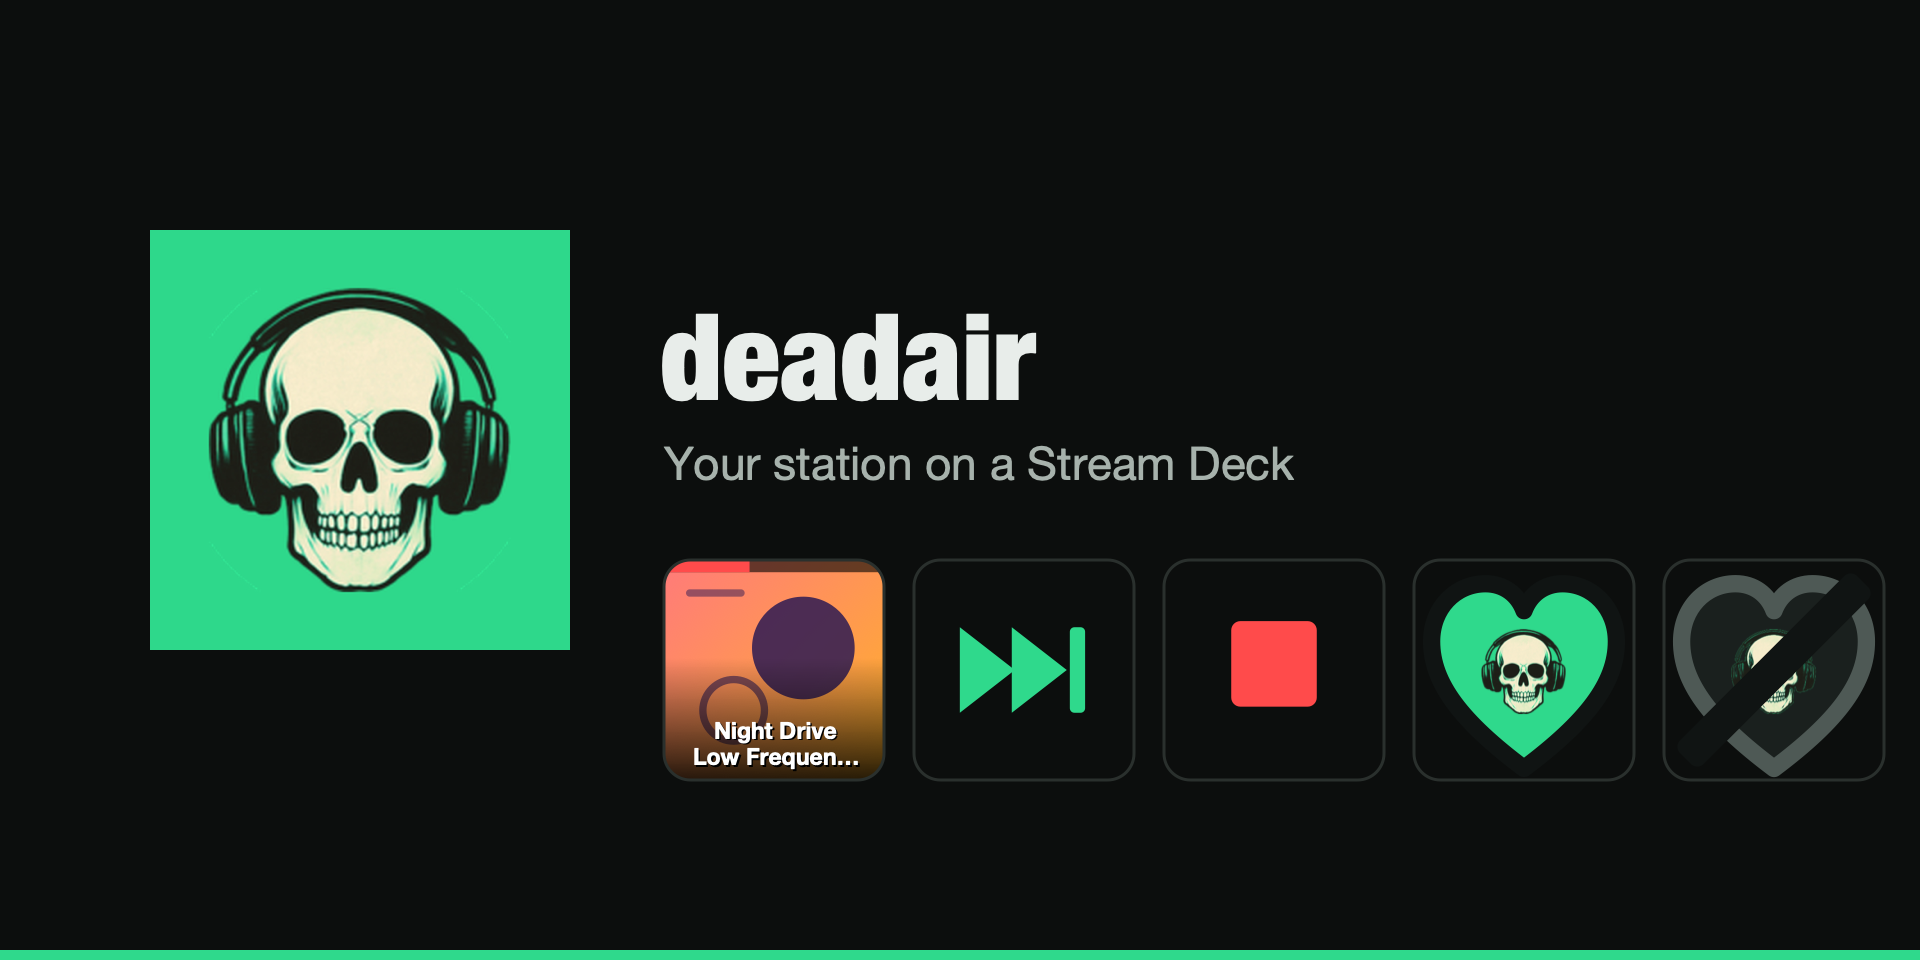
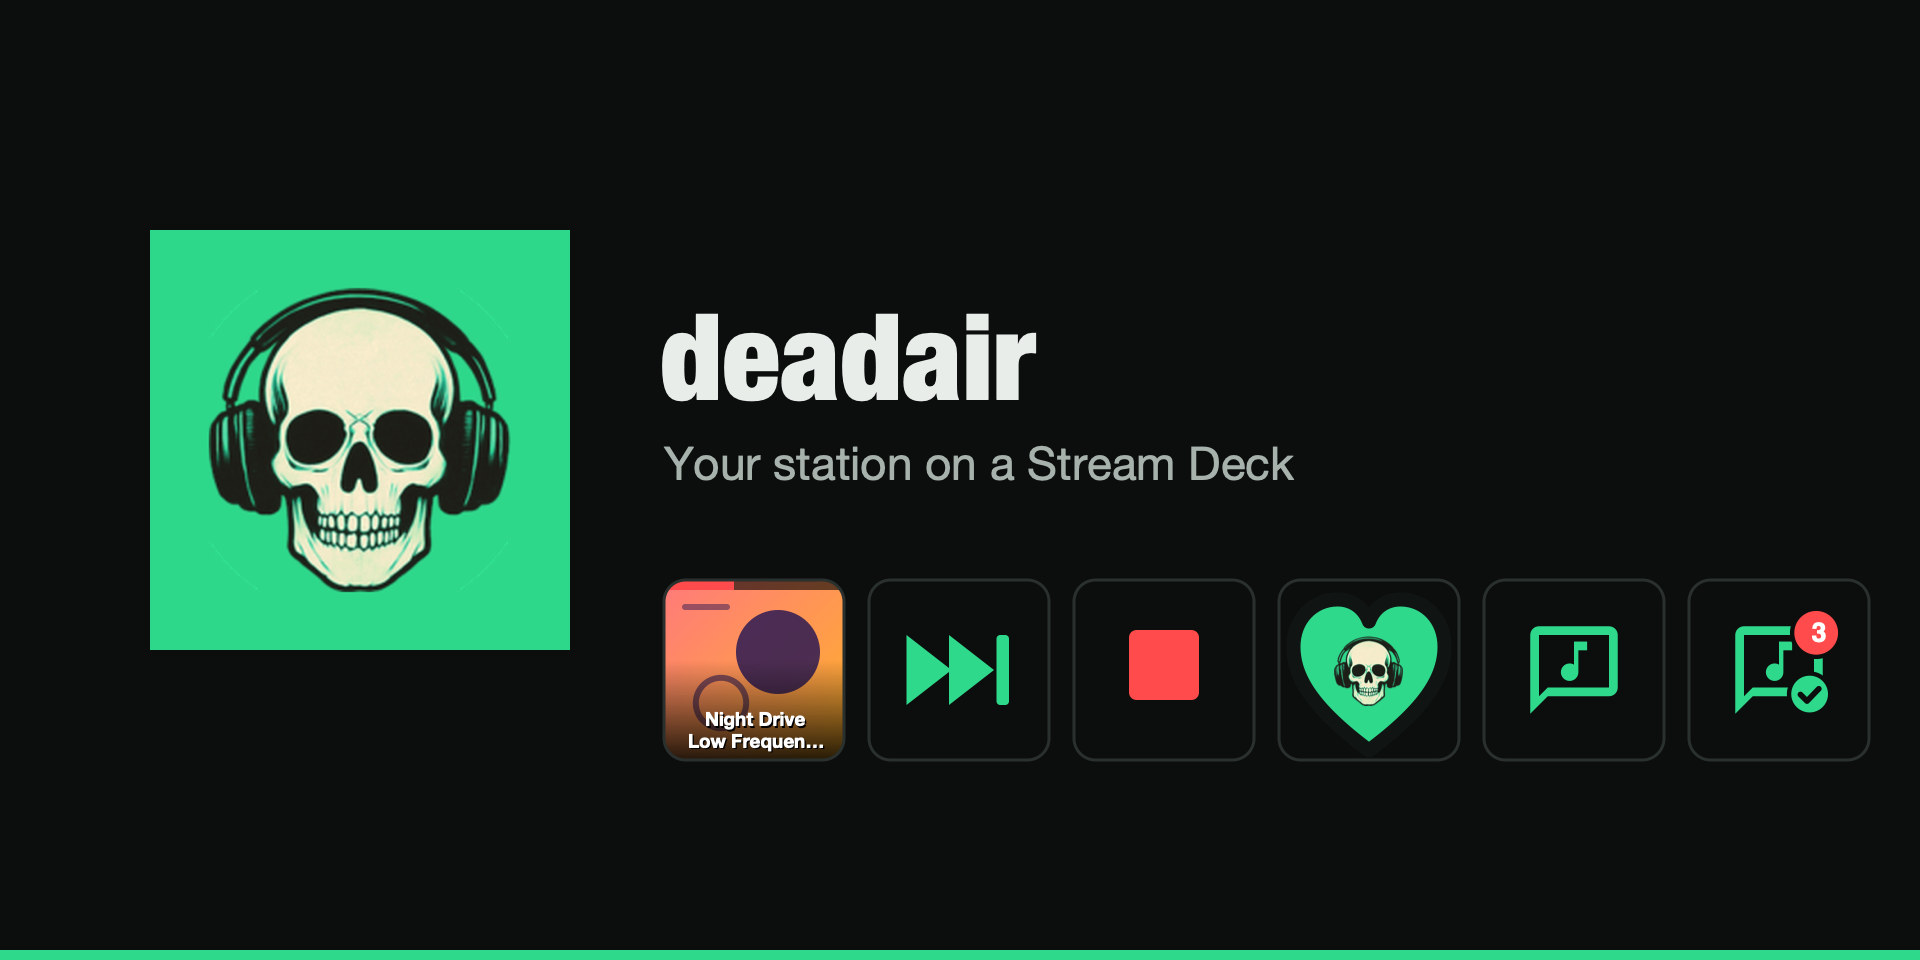
streamdeck: the Marketplace listing shows Request and Grant request (#776)
The description gains the two keys and comes back under the console's
1,500 characters, the thumbnail and the second gallery image draw them,
and the release notes are 0.3.0's.

Changed region(s): [[0.3438, 0.5625, 1.0, 0.8125], [0.5625, 0.7812, 0.625, 0.8125], [0.5625, 0.5938, 0.5938, 0.625]]

diff --git a/apps/streamdeck/marketplace/listing.md b/apps/streamdeck/marketplace/listing.md
@@ -19,37 +19,39 @@ Under the console's 1,500 characters.
 > deadair is an AI radio station you run yourself: it picks the records, writes what the presenter
 > says between them, speaks it and streams it. This plugin puts its desk on your Stream Deck.
 >
-> Now playing shows what is on air: the cover, the title and who it is by, and a bar that fills as the
-> record plays. When the station is quiet it says why, in the console's own words: ready, off air,
-> warming up. Press it to open the station's console. The bar, and the title and artist, can each be
-> turned off per key.
+> Now playing shows the cover, the title and artist, and a bar that fills as the record plays. When
+> the station is quiet it says why: ready, off air, warming up. Press it to open the console. The bar
+> and the title can each be turned off per key.
 >
-> Skip ends the record or break on air and plays the next one.
+> Skip ends the record or break on air.
 >
-> Like and Dislike set what the station thinks of the record playing, the same opinion you would
-> set from the running order in the console: a like plays it more often, a dislike means never
-> again. The heart fills with colour when the station already agrees; press the lit one to take it
-> back.
+> Like and Dislike set what the station thinks of the record playing: a like plays it more often, a
+> dislike means never again. The heart fills when the station already agrees; press it again to take
+> it back.
 >
 > Stop or start stops the station on the second press within five seconds, so a stray press never
-> takes it off air, and once it is stopped the same key starts it again.
+> takes it off air, and then starts it again.
 >
-> You enter your station's address and an API key once, in any deadair key's settings, and every
-> key shares them. The key is issued in the station's console under Settings, Sign-in and security, API keys:
-> Read only is enough for Now playing, and for seeing what the station thinks of a record; Skip,
-> Stop and voting need Read and manage. It stays on your computer and never goes into a Stream Deck
-> profile you export.
+> Request asks the station for a record, as a listener would: pick one in the key's settings, or
+> leave it unpicked and a press opens the console's request dialog. Grant request counts the requests
+> waiting for approval and lets the longest-waiting one through.
 >
-> The plugin needs a deadair station to talk to. deadair is free and open source:
-> https://deadair.radio
+> Enter your station's address and an API key once, in any deadair key's settings. Issue the key in
+> the console under Settings, Sign-in and security: Read only is enough for Now playing and Request,
+> and the other keys need Read and manage. It stays on your computer and never goes into a profile
+> you export.
+>
+> The plugin needs a deadair station, which is free and open source: https://deadair.radio
 
 ## Release notes (0.1.0)
 
 The first release: Now playing, Skip, and Stop or start.
 
-## Release notes (next)
+## Release notes (0.3.0)
 
-Like and Dislike: rate the record on air from the deck, and press the lit key again to take it back.
+Two new keys. Request asks the station for a record you pick in its settings, or opens the console's
+request dialog when none is picked. Grant request shows how many requests are waiting for approval
+and lets the longest-waiting one through.
 
 ## Links
 

diff --git a/apps/streamdeck/CLAUDE.md b/apps/streamdeck/CLAUDE.md
@@ -46,7 +46,8 @@ page, `docs/features/console.md` and both READMEs link: moving it means changing
 
 **The Marketplace listing is in `marketplace/`**: the text typed into the Maker Console
 (`listing.md`) and the thumbnail and three gallery images it takes, 1920 × 960. The pictures are drawn
-by `tools/marketplace.media.mjs` from the plugin's own `nowPlayingSvg` and `voteSvg`, so the listing
+by `tools/marketplace.media.mjs` from the plugin's own `nowPlayingSvg`, `voteSvg`, `requestSvg` and
+`grantSvg`, so the listing
 shows what a key actually draws, and rasterised by macOS's `sips`; run it by hand when a key changes and commit
 what it writes, as the desktop commits its generated icons. The covers in them are abstract shapes
 and the records made up, because a listing is no place for somebody else's album art. Two things it
